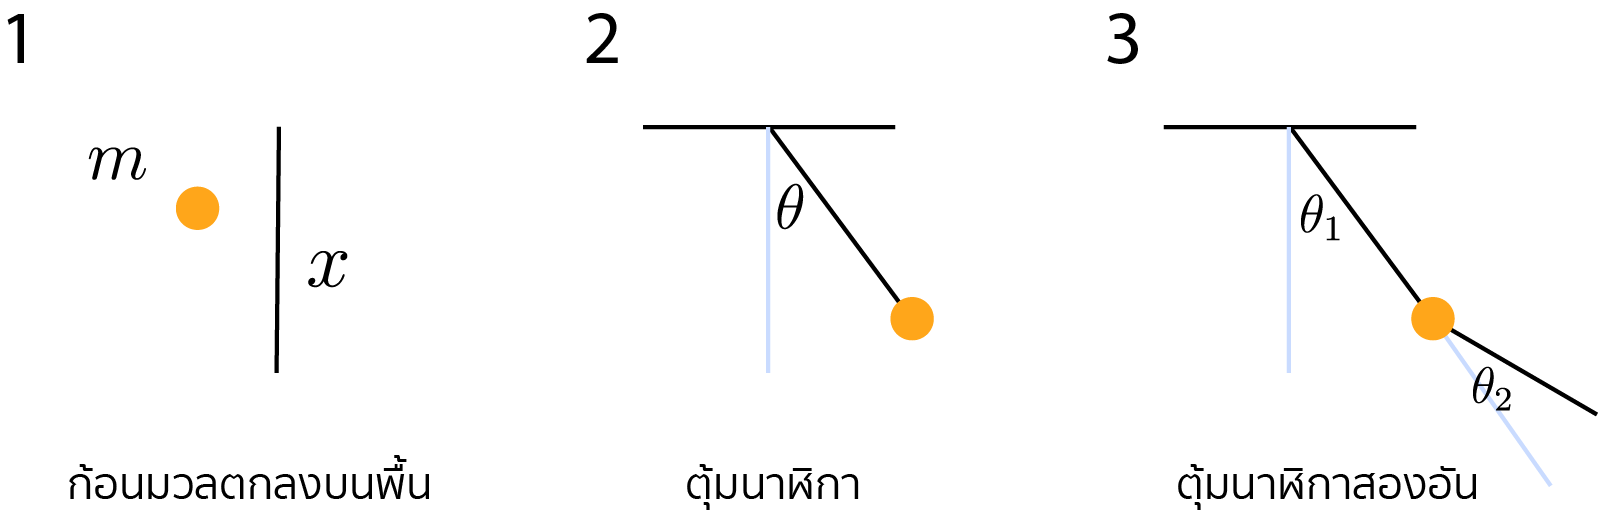
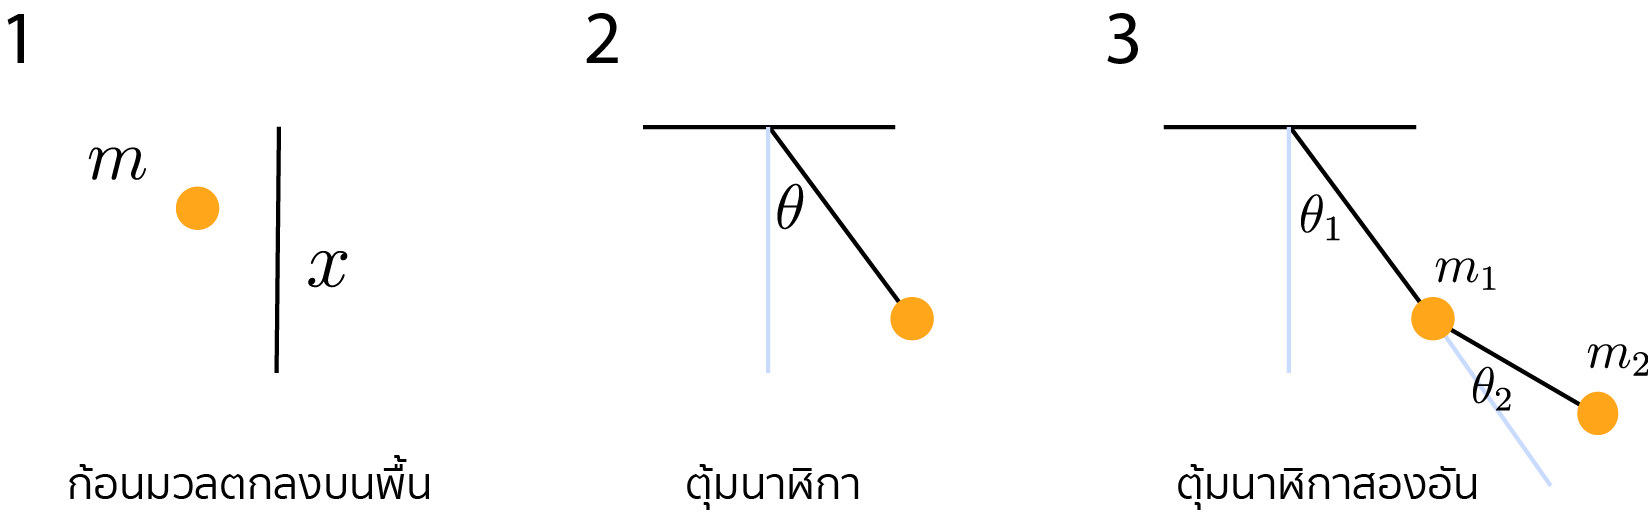
new figure and add explanation to double pendulum

diff --git a/_posts/2015-12-27-lagrangian-mech.md b/_posts/2015-12-27-lagrangian-mech.md
@@ -15,18 +15,22 @@ date: 2015-12-27 16:00:00
 
 ในโพสต์นี้เราจะมาพูดถึงฟิสิกส์กันบ้างหลังจากโพสต์ก่อนหน้าเราพูดถึงโปรแกรมมิ่งไปซะเยอะ  ทุกคนที่เรียนวิชาฟิสิกส์ต้องเคยผ่านการเรียนกฎของนิวตันกันมา ไม่ว่าจะรุ่นไหน เราก็เรียนกฎของนิวตัน \\( F = ma \\) ท่องจำกันอย่างขึ้นใจตั้งแต่สมัย ม.2 หรือ ม.3 แถมแก้สมการการเคลื่อนที่จากกฎของนิวตันได้อย่างไม่ยากเย็น เราก็เช่นกัน
 
-แต่เราพอโตขึ้นมา ได้เรียนหลายวิชามากขึ้น เราก็คนพบว่า เห้ย! จริงๆแล้วไม่ใช่แค่กฎของนิวตันที่ใช้แก้สมการการเคลื่อนที่ได้นะ ยังมีสมการที่เรียกว่าสมการออยเลอร์-ลากรานจ์ (Euler-Lagrange equation) หรือเรียกสั้นๆว่าสมการลากรานจ์  ที่แก้สมการการเคลื่อนที่ของวัตถุได้เช่นกัน คือจริงๆสำหรับนักเรียนทั่วไปอาจจะไม่เจอสมการนี้กันมากเท่าไหร่ แต่สำหรับคนที่อ่านเปเปอร์ในสายวิศวกรรมควบคุมหรือ Control ทีไร มักจะเจอการพูดถึงสมการนี้โดยประจำ แถมไม่ค่อยจะแก้สมการมาให้อีกด้วย ชอบทิ้งสมการไว้ใช้แก้สมการการเคลื่อนที่เอง หรือ State equation
+แต่เราพอโตขึ้นมา ได้เรียนหลายวิชามากขึ้น เราก็คนพบว่า เห้ย! จริงๆ แล้วไม่ใช่แค่กฎของนิวตันที่ใช้แก้สมการการเคลื่อนที่ได้นะ ยังมีสมการที่เรียกว่าสมการออยเลอร์-ลากรานจ์ (Euler-Lagrange equation) หรือเรียกสั้นๆว่าสมการลากรานจ์  ที่แก้สมการการเคลื่อนที่ของวัตถุได้เช่นกัน คือจริงๆสำหรับนักเรียนทั่วไปอาจจะไม่เจอสมการนี้กันมากเท่าไหร่ แต่สำหรับคนที่อ่านเปเปอร์ในสายวิศวกรรมควบคุมหรือ Control ทีไร มักจะเจอการพูดถึงสมการนี้โดยประจำ แถมไม่ค่อยจะแก้สมการมาให้อีกด้วย ชอบทิ้งสมการไว้ใช้แก้สมการการเคลื่อนที่เอง หรือ State equation
 
-กลับมาที่สมการลากรานจ์ มันค่อนข้างจะมหัศจรรย์เล็กน้อย แต่ว่าหลักการของสมการนี้คือเราสามารถเขียนสมการการเคลื่อนที่ได้จากเพียงพลังงานศักย์ พลังงานจลน์ และความรู้แคลคูลัส (ดิฟ ดิฟ ดิฟ) เท่านั้น แน่นอนว่าเราจะไม่ลงรายละเอียดการพิสูจน์สมการเนื่องจากต้องใช้ความรู้ Calculus of Variation ถึงจะพิสูจน์สมการลากรานจ์ได้  อันนั้นไว้สำหรับให้คนที่เรียน Optimal Control อย่างนักศึกษาภาคไฟฟ้าหรือเครื่องกลเท่านั้น
+กลับมาที่สมการลากรานจ์ มันค่อนข้างจะมหัศจรรย์เล็กน้อย แต่ว่าหลักการของสมการนี้คือเราสามารถเขียนสมการการเคลื่อนที่ได้จากเพียงพลังงานศักย์ พลังงานจลน์ และความรู้แคลคูลัส (ดิฟ ดิฟ ดิฟ) เท่านั้น แน่นอนว่าเราจะไม่ลงรายละเอียดการพิสูจน์สมการเนื่องจากต้องใช้ความรู้ Calculus of Variation ถึงจะพิสูจน์สมการลากรานจ์ได้ อันนั้นไว้สำหรับให้คนที่เรียน Optimal Control อย่างนักศึกษาภาคไฟฟ้าหรือเครื่องกลเท่านั้น
 
-ข้อดีขอการใช้สมการลากราจน์นี้คือเราสามารถเช็คสมการการเคลื่อนที่ได้จากเพียงพลังงานจลน์และพลังงานศักย์อย่างไม่ยากนัก  และเราไม่ต้องแตกแรงและแก้หลายๆสมการอย่างการใช้กฎของนิวตันอีกด้วย ยกตัวอย่างสมการการเคลื่อนที่ ที่เขียนด้วยสมการลากรานจ์ได้ง่ายๆเลยก็เช่น Single pendulum, double pendulum หรือแม้แต่ triple pendulum ก็ยังได้อยู่ อย่างเช่น inverted pendulum ก็ไม่ยากเพราะว่าเราเขียนสมการของพลังงานสำหรับ inverted pendulum ง่ายกว่าใช้กฎของนิวตันแน่ๆ นอกจากนั้นถ้าเราเขียนสมการของพลังงานถูกต้อง (ซึ่งง่ายกว่าการเขียนสมการนิวตันเยอะมากๆ) ไม่ใช่แค่นี้ จริงๆแล้วยังมีอีกหลายอย่างที่สมการลากรานจ์สามารถทำได้ เช่น โมเมนตัมหรือการใส่ constraint ไปในวิถีที่วัตถเคลื่อนที่เช่นวัตถุวิ่งอยู่บนราง ซึ่งเราจะไม่พูดถึงในโพสต์นี้ เราสามารถเอาสมการที่เขียนไปแก้แบบ Symbolic โดยใช้ Mathematica, Sympy บน Python หรือ Matlab สำหรับ Mathematica การหาสมการการเคลื่อนที่ เขียนแค่ 3-4 บรรทัดของโค้ดเท่านั้น จริงๆไม่สั้นขนาดนั้นนะ แต่ว่าไม่ยาวมาก ในตัวอย่างด้านล่าง เราจะใช้ Mathematica ในการแก้สมการ
+ข้อดีขอการใช้สมการลากราจน์นี้คือเราสามารถเช็คสมการการเคลื่อนที่ได้จากเพียงพลังงานจลน์และพลังงานศักย์อย่างไม่ยากนัก  และเราไม่ต้องแตกแรงและแก้หลายๆสมการอย่างการใช้กฎของนิวตันอีกด้วย ยกตัวอย่างสมการการเคลื่อนที่ ที่เขียนด้วยสมการลากรานจ์ได้ง่ายๆเลยก็เช่น single pendulum, double pendulum หรือแม้แต่ triple pendulum ก็ยังได้อยู่ หรือการเขียน inverted pendulum ก็ไม่ยากเพราะว่าเราเขียนสมการของพลังงานสำหรับ inverted pendulum ง่ายกว่าใช้กฎของนิวตันแน่ๆ
 
-โอเค จะให้อธิบายสมการออยเลอร์-ลากรานจ์ ไปมากกว่านี้ก็ยังได้ แต่เนื้อหาโดยละเอียดน่าจะมีตามหนังสือวิชาการหรือแม้แต่บน Wikipedia เราจะมาลองเขียนสมการกันจริงๆเลยในโพสต์นี้ เราจะใช้ single pendulum และ double pendulum เป็นตัวอย่าง พร้อมตัวอย่างโค้ด Snippet ให้ไปลองเขียนกันบน Mathematica กัน
+โดยถ้าเราเขียนสมการของพลังงานถูกต้อง (ซึ่งง่ายกว่าการเขียนสมการนิวตันเยอะมาก) ก็จะมีโอกาสเขียนสมการการเคลื่อนที่ได้ถูกต้องมากกว่าการใช้กฎของนิวตัน และเราสามารถเอาลากรานจ์ที่เขียนไปแก้แบบ Symbolic โดยใช้ solver ในโปรแกรมต่างๆ Mathematica, sympy บน Python หรือ Matlab ก็ได้ สำหรับ Mathematica การหาสมการการเคลื่อนที่โดยใช้โค้ดเขียนแค่ 3-4 บรรทัดเท่านั้น คือจริงๆไม่สั้นขนาดนั้นนะ แต่ว่าไม่ยาวมาก ในตัวอย่างด้านล่าง เราจะใช้ Mathematica เป็นตัวอย่างในการแก้สมการ
+
+ไม่ใช่แค่เพียงเท่านี้ ยังมีอีกหลายอย่างที่สมการลากรานจ์สามารถทำได้ เช่น การใส่โมเมนตัม การใส่ constraint  เข้าไปในวิถีที่วัตถเคลื่อนที่เช่นวัตถุวิ่งอยู่บนราง หรือแม้แต่ใส่แรงเข้าไปในสมการก็ได้เช่นกัน ซึ่งเราจะไม่พูดถึงในโพสต์นี้
+
+โอเค จะให้อธิบายสมการออยเลอร์-ลากรานจ์ ไปมากกว่านี้ก็ยังได้ แต่เนื้อหาโดยละเอียดน่าจะมีตามหนังสือวิชาการหรือแม้แต่บน Wikipedia เราจะมาลองเขียนสมการกันจริงๆเลยในโพสต์นี้ เราจะใช้ single pendulum และ double pendulum เป็นตัวอย่าง พร้อมตัวอย่างโค้ด snippet ให้ไปลองเขียนกันบน Mathematica กัน
 
 
 ## Euler-Lagrange equation basic and terminology
 
-ก่อนจะเริ่มต้นกันด้วยการเขียนสมการลากรานจ์ เราต้องรู้จักการเขียนตัวแปรที่เรียกกันว่าลากรานเจียน (Lagrangian) หรือ \\(L\\) กันก่อน ซึ่งคือ**พลังงานจลน์ของระบบลบกับพลังงานศักย์**
+ก่อนจะเริ่มต้นกันด้วยการเขียนสมการลากรานจ์ เราต้องรู้จักการเขียนตัวแปรที่เรียกกันว่าลากรานเจียน (Lagrangian) หรือใช้สัญลักษณ์ว่า \\(L\\) กันก่อน ซึ่งคือ**พลังงานจลน์ของระบบลบกับพลังงานศักย์**
 
 $$L = KE - PE$$
 
@@ -65,10 +69,10 @@ $$L = KE - PE = \frac{1}{2}m\dot{x}^2 - mgx$$
 ดังนั้นเมื่อใส่เข้าไปในสมการลากรานจ์ จะได้ \\( m\ddot{x} = -mg, \ddot{x} = -g \\) เป็นสมการการเคลื่อนที่ของก้อนมวลนี้ ซึ่งได้เหมือนกฎของนิวตันเป๊ะเลย เจ๋งมาก!
 
 
-### ตัวอย่างที่ 2: ตุ้มนาฬิกาหรือ Single pendulum
+### ตัวอย่างที่ 2: ตุ้มนาฬิกาหรือ single pendulum
 
 
-โอเค \\(q\\) ในที่นี้คือ \\(\theta\\) นั่นเอง โดยเราเขียนพลังงานจลน์ได้ว่า \\( KE = \frac{1}{2} mv^2 = \frac{1}{2}m(L \dot{\theta})^2 \\) ส่วนพลังงานศักย์เมื่อให้จุดต่ำสุดที่ pendulum ไปถึงเป็นจุดเทียบ เขียนได้ว่า \\( PE = mgh = mgL(1 - \cos(\theta))\\) ดังนั้นเราเขียนลากรานจ์ได้ดังต่อไปนี้
+สำหรับ single pendulum \\(q\\) ในที่นี้คือ \\(\theta\\) นั่นเอง โดยเราเขียนพลังงานจลน์ได้ว่า \\( KE = \frac{1}{2} mv^2 = \frac{1}{2}m(L \dot{\theta})^2 \\) ส่วนพลังงานศักย์เมื่อให้จุดต่ำสุดที่ pendulum ไปถึงเป็นจุดเทียบ เขียนได้ว่า \\( PE = mgh = mgL(1 - \cos(\theta))\\) ดังนั้นเราเขียนลากรานจ์ได้ดังต่อไปนี้
 
 $$L = KE - PE = \frac{1}{2}m(L \dot{\theta})^2 - mgL(1 - \cos(\theta))$$
 
@@ -79,7 +83,7 @@ $$L = KE - PE = \frac{1}{2}m(L \dot{\theta})^2 - mgL(1 - \cos(\theta))$$
 ดังนั้นสมการการเคลื่อนที่จึงเขียนได้ดังนี้ \\( mL^2 \ddot{\theta} = -mgL\sin(\theta) \\) หรือว่า \\( \ddot{\theta} = -\cfrac{g}{L}sin(\theta) \\)
 
 
-### ตัวอย่างที่ 3: ตุ้มนาฬิกาสองอัน หรือ Double pendulum
+### ตัวอย่างที่ 3: ตุ้มนาฬิกาสองอัน หรือ double pendulum
 
 วิธีการก็เหมือนกันกับ single pendulum เป๊ะ แค่เราต้องเขียนพลังงานจลน์และพลังงานศักย์ของมวลอีกก้อนเพิ่ม diagram ของ double pendulum ดูได้จากข้างบน สำหรับสมการนั้นเราจะไปแก้กันโดยใช้ Mathematica เลย เราจะไม่เขียนลงไปในโพสต์ แต่เชื่อว่าผู้ที่อ่านมาถึงจุดนี้สามารถลองเช็คคำตอบของตัวเองได้กับ Mathematica โดยตรงเลย
 
@@ -93,6 +97,24 @@ $$\cfrac{d}{dt}\cfrac{\partial L}{\partial \dot{\theta_2}} = \cfrac{\partial L}{
 
 จากสองสมการนี้เราสามารถแก้หา \\( \ddot{\theta}_1, \ddot{\theta}_2 \\) ได้โดยใช้คำสั่ง `Solve` ของ Mathematica
 
+ก่อนจะไปดูโค้ดเพื่อแก้สมการ เราลองมาเขียนกันลากรานจ์ดูก่อน จะได้อ่านโค้ดเข้าใจมากขึ้น
+
+$$KE = KE_{m_1} + KE_{m_2} =  \frac{1}{2}m_1 (\dot{x}_1^2 + \dot{y}_1^2) + \frac{1}{2}m_2 (\dot{x}_2^2 + \dot{y}_2^2) $$
+
+โดยที่
+
+$$x_1 = R_1\sin\theta_1, y_1 = -R_1\cos\theta_1$$
+
+และ
+
+$$x_2 = R_1\sin\theta_1 + R_2\sin(\theta_1 + \theta_2), y_2 = -R_1\cos\theta_1 - R_2\cos(\theta_1 + \theta_2)$$
+
+ส่วนพลังงานศักย์ เขียนได้ดังนี้
+
+$$PE = -m_1 g R_1 \cos\theta_1 + m_2 g (-R_1 \cos\theta_1 - R_2 \cos(\theta_1 + \theta_2))$$
+
+จากนั้นเมื่อเราแทนทุกอย่างลงไปในสมการจะได้ลากรานจ์ \\(L\\) ตามในโค้ดที่ให้ด้านล่าง
+
 
 {% gist titipata/d072723c316ec0e22667 %}
 
@@ -104,7 +126,7 @@ $$\cfrac{d}{dt}\cfrac{\partial L}{\partial \dot{\theta_2}} = \cfrac{\partial L}{
 
   <figcaption>
     <a title="Skype subscription">
-      ตัวอย่างของ Double pendulum หลังจากใช้ Mathematica แก้สมการ
+      ตัวอย่างของ double pendulum หลังจากใช้ Mathematica แก้สมการ
     </a>
   </figcaption>
 </center></figure>
